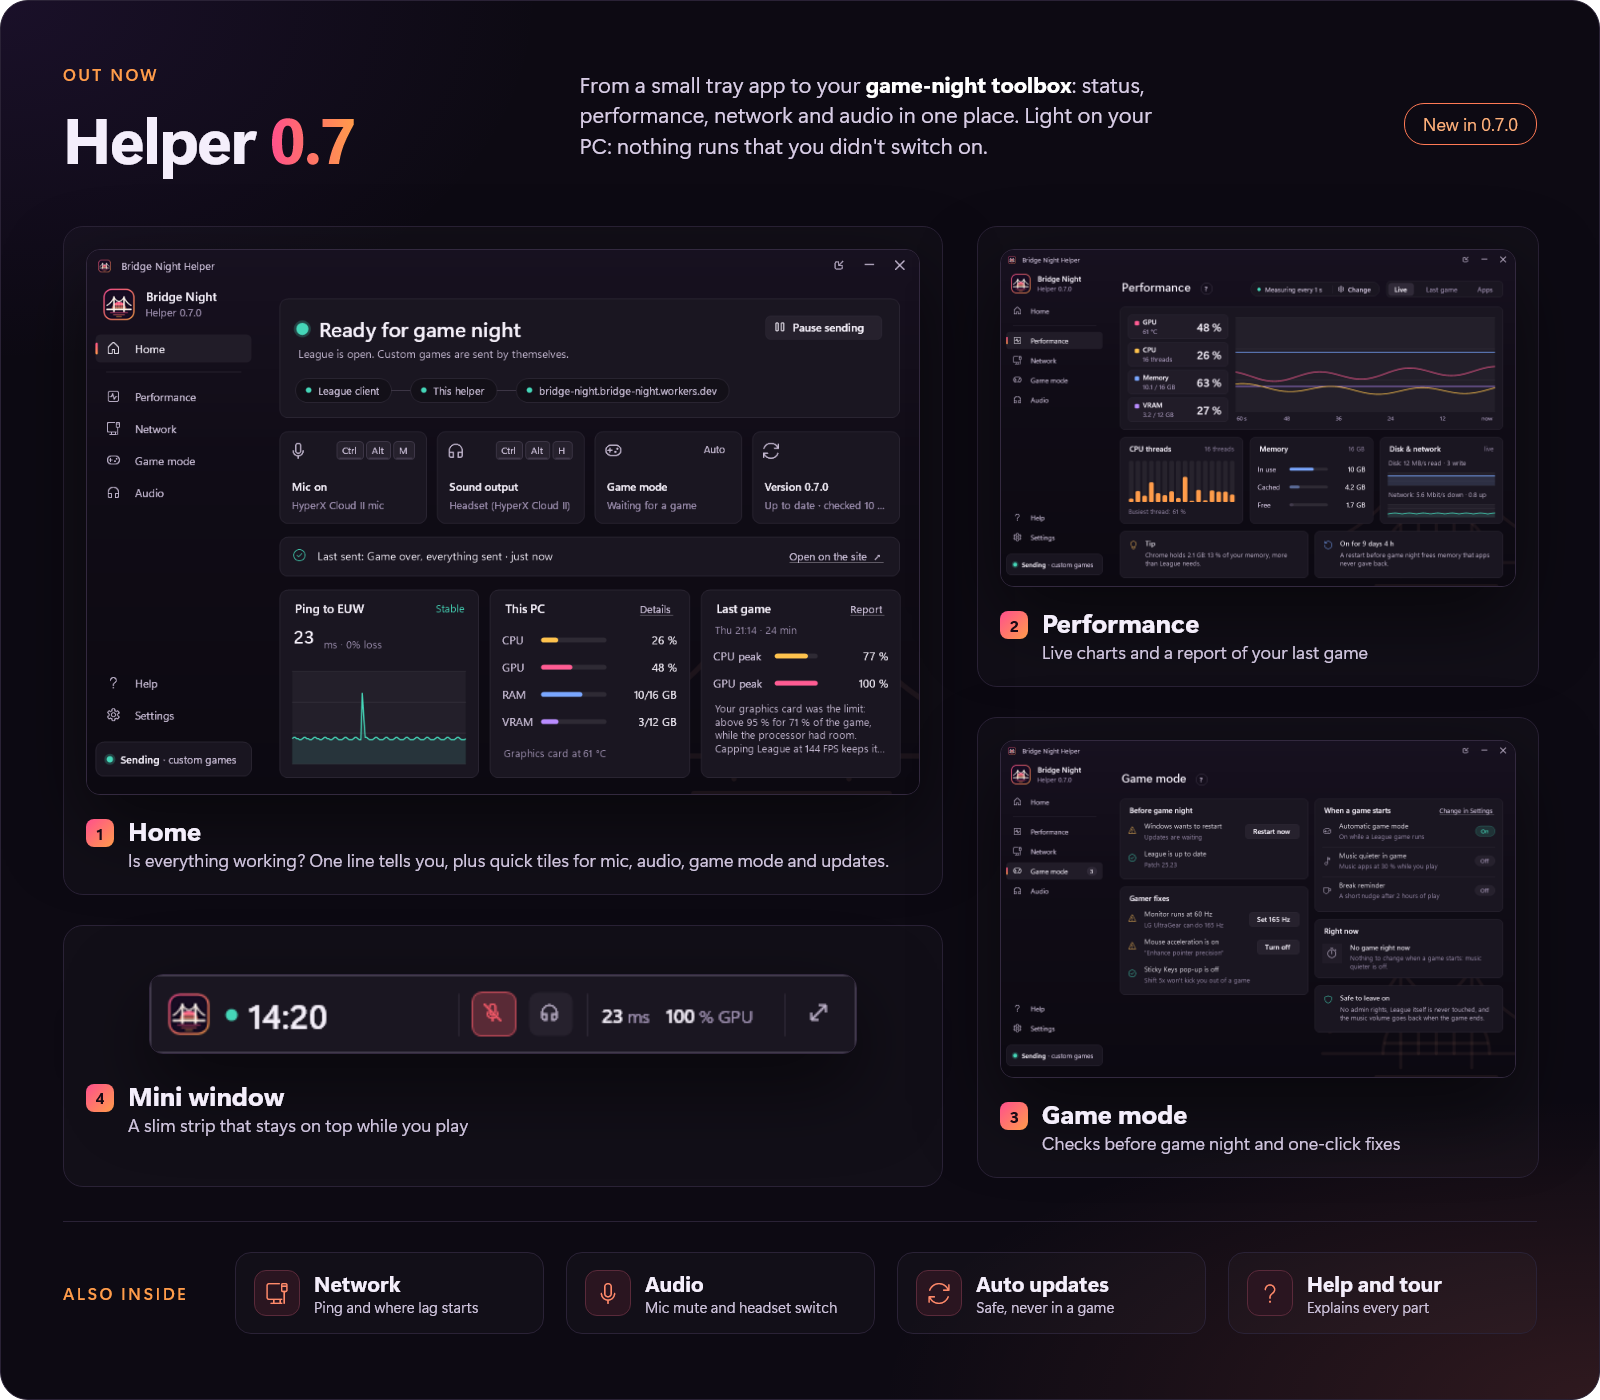
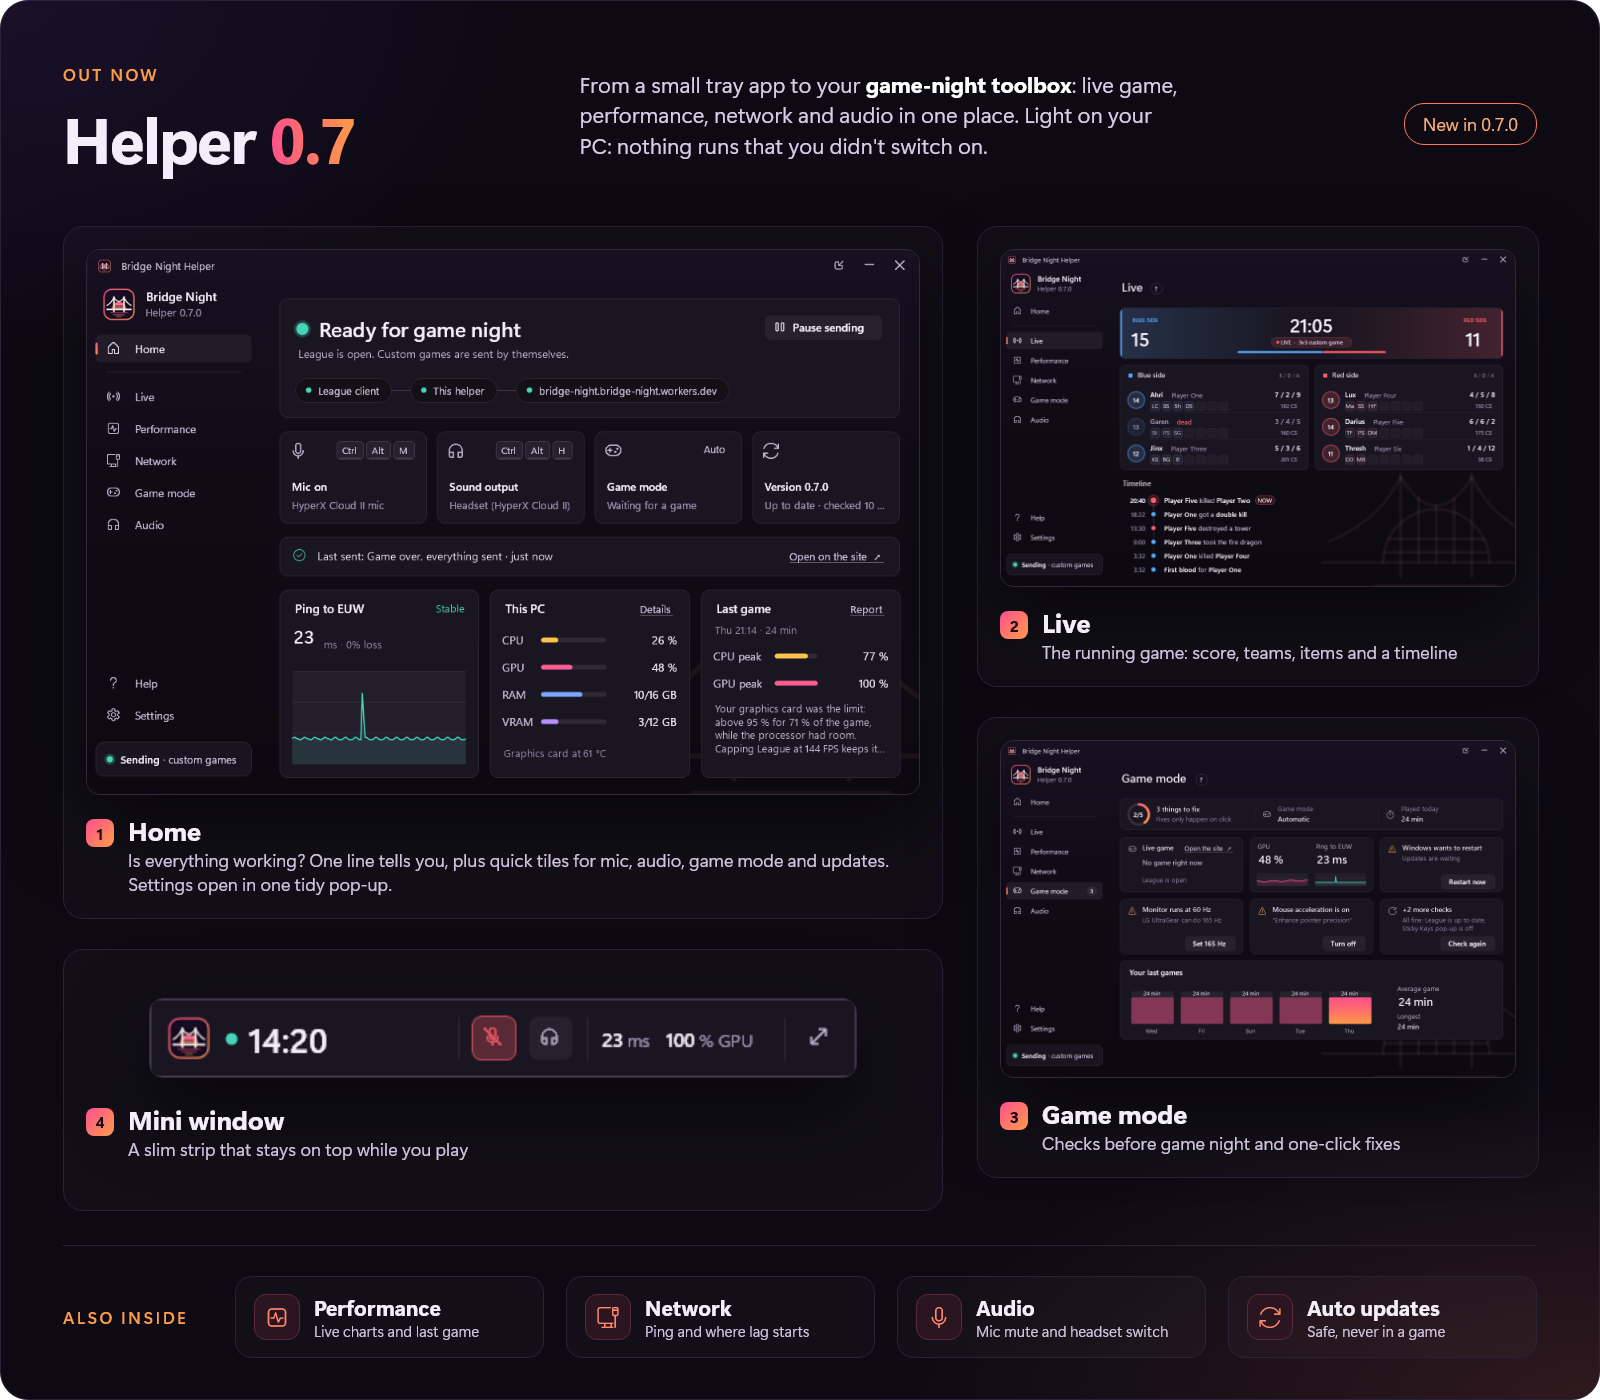
README: new pictures with the Live page, Settings pop-up in the 0.7.0 list

diff --git a/README.md b/README.md
@@ -31,7 +31,7 @@ that one player runs during the game, so nobody ever has to type in a result.</p
 
 <br/><br/>
 
-<img src="docs/images/release-0.7.0.png" alt="New version 0.7.0 of the helper: a brand-new look, performance and network, audio and game mode" width="100%" />
+<img src="docs/images/release-0.7.0.png" alt="New version 0.7.0 of the helper: a brand-new look, live game and performance, audio and game mode" width="100%" />
 
 <p><b>Out now.</b> <a href="https://github.com/kasakuma99/bridge-night-/releases/latest">Download helper 0.7.0</a>: from now on it keeps itself up to date.</p>
 
@@ -78,7 +78,7 @@ that one player runs during the game, so nobody ever has to type in a result.</p
 
 <br/>
 
-<img src="docs/images/helper-07.png" alt="Helper 0.7: Home, Performance, Game mode and the mini window" width="100%" />
+<img src="docs/images/helper-07.png" alt="Helper 0.7: Home, Live, Game mode and the mini window" width="100%" />
 
 <h3>What's new in 0.7.0</h3>
 
@@ -93,6 +93,7 @@ built to stay light: nothing runs in the background that you didn't switch on.</
   <tr><td><b>Network</b></td><td>Ping, jitter and packet loss towards EUW (Riot does not answer pings, so it measures to a server right next to it), and whether lag comes from your Wi-Fi, your provider or Riot. Only while the window is open.</td></tr>
   <tr><td><b>Game mode</b></td><td>A check before game night (pending Windows restart, League patch), a reminder to take a break after long sessions, optional quieter music while you play, and one-click fixes for a monitor below its best refresh rate, mouse acceleration and the Sticky Keys pop-up.</td></tr>
   <tr><td><b>Audio</b></td><td>Mute your microphone everywhere at once, in Discord, League and the browser, and switch between headset, speakers and monitor with one key.</td></tr>
+  <tr><td><b>Settings</b></td><td>Every switch in one tidy pop-up over the window: connection, startup and alerts, performance, game mode, audio and updates.</td></tr>
   <tr><td><b>Mini window</b></td><td>A slim strip that stays on top while you play: status, mic, ping, GPU load and the game timer.</td></tr>
   <tr><td><b>Notifications</b></td><td>A short heads-up when a result is saved, when game mode switches on, and after an update, with a "Muted" badge while your mic is off.</td></tr>
   <tr><td><b>Automatic updates</b></td><td>New versions come from this page's releases, are checked with their SHA-256 fingerprint and install by themselves, never during a game. Can be turned off.</td></tr>
